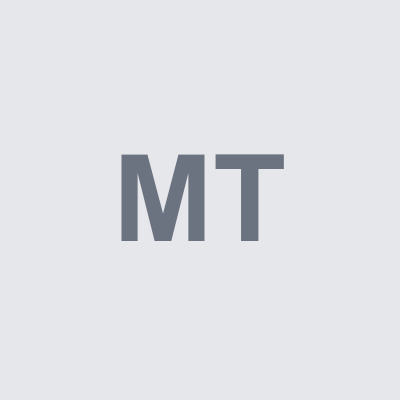
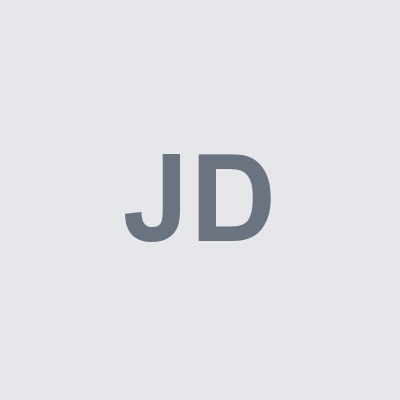
Change example persona to John Doe

Changed region(s): [[0.3, 0.36, 0.72, 0.63]]

diff --git a/README.md b/README.md
@@ -2,6 +2,8 @@
 
 A JSON-driven portfolio platform with multiple design systems. Built with React 19, TypeScript, Tailwind CSS v4, and shadcn/ui.
 
+**[Live Demo](https://portfolio-template-ten-eta.vercel.app/)**
+
 ## Quick Start
 
 1. Click **"Use this template"** → **"Create a new repository"**
